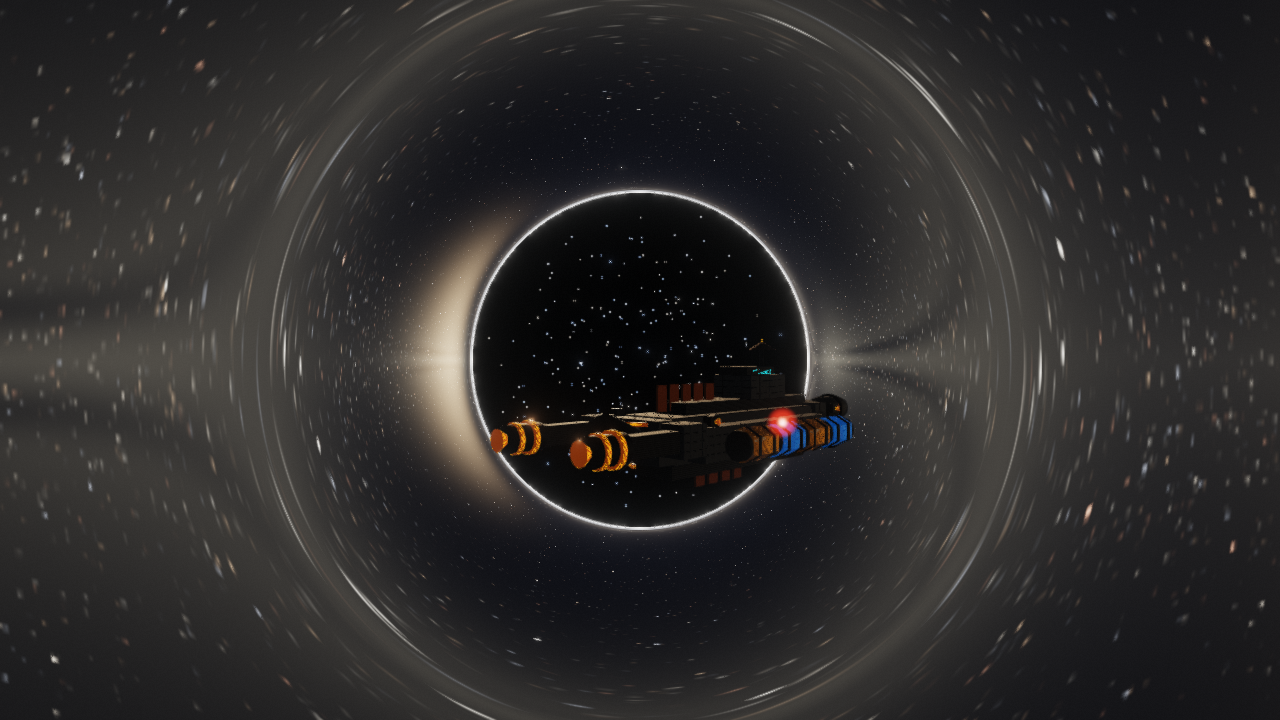
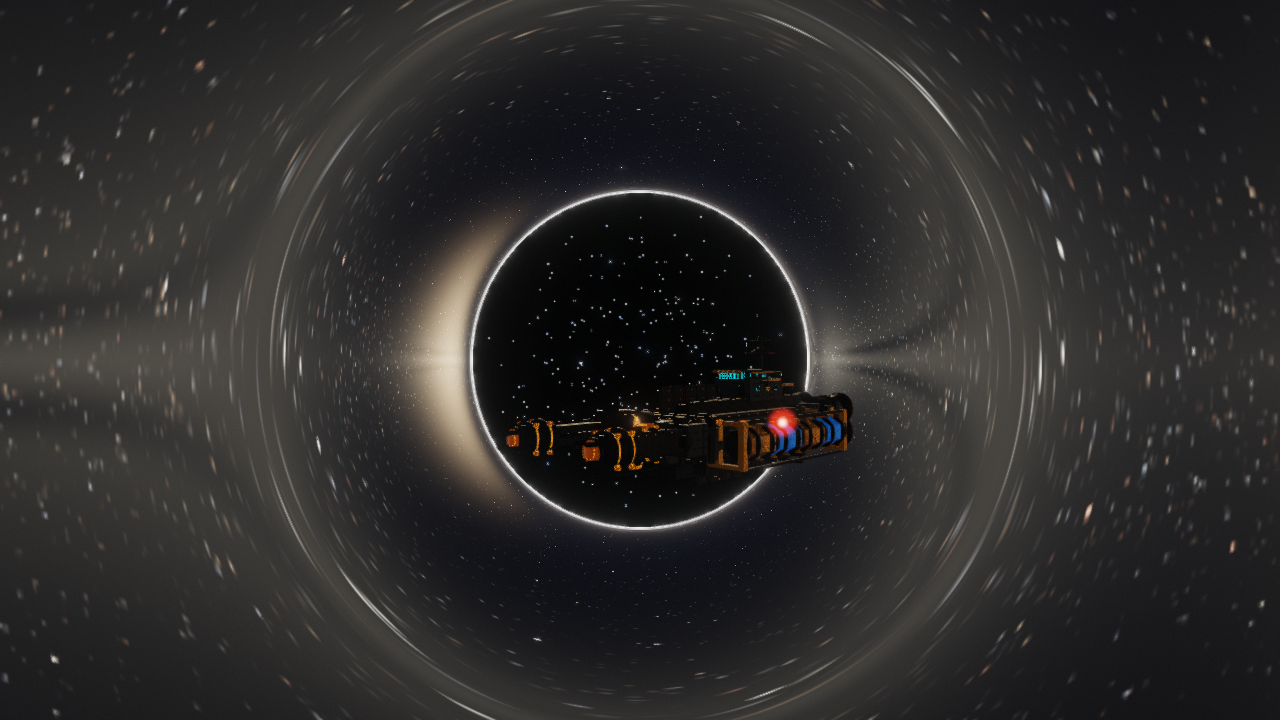
feat(ship): mining dreadnought reference detail pass
The hauler was the blockiest hull in the fleet and is now player-selectable,
so it got the same treatment as dart, shuttle and ring_ship: 17 356 -> 41 740
triangles of real hardware instead of textured boxes.

- crusher drum: tooth ring, 24 breaker spikes, collar
- laser booms: hinge knuckles, hydraulic rams, underside braces, ring collars
  with vanes, emitter cages holding lenses, cable runs along both arms
- bridge: mullioned visor, sun shade, roof handrail, wing platforms, whip and
  blade masts, sensor horns, lens banks; dish rebuilt with rim, stanchions,
  spreader and feed horn
- cargo rack: pod straps with bolts, manifold headers, drop legs, keel
  crossovers, hazard-striped end frames with rails and strobes
- hull: spine banding, weld seams, keel and dorsal stringers, skirt struts,
  armour patches, ladders
- radiators: edge rails, slat arrays, tip weights
- stern: bell throats, CTV and gimbal rings with lugs, feed mains, fore/aft/
  lateral RCS clusters, berthing port, service crane, aft grilles, nav lights

The #195 fleet-axis tip and the 2.30 normalization are untouched and still
hold after the additions - measured on the exported OBJ: X=0.92, Y=0.84,
Z=2.30 with the nose on -Z. One static check pins the detail pass being wired
and the axis convention surviving it.

Verified locally: generator reruns clean, --screenshot-all regenerates
ship_dreadnought.png with the detailed hull level and correctly oriented.

Refs #195

Changed region(s): [[0.375, 0.4889, 0.6875, 0.6722]]

diff --git a/blender/scripts/generate_mining_dreadnought.py b/blender/scripts/generate_mining_dreadnought.py
@@ -146,6 +146,373 @@ def add_hex_pod(center, radius, length, slot=2):
                      radius * 1.08, length * 0.08, axis="Y", sides=6, slot=0, bevel=0.002)
 
 
+def add_dreadnought_details():
+    """Reference-driven relief pass for the Heavy Mining Dreadnought.
+
+    Everything below is authored in the builder frame (+Y forward, +Z up,
+    +X starboard) and is real geometry, not texture tricks: reinforcement
+    banding, weld seams, keel and dorsal stringers and outrigger trusses on the
+    spinal chassis; a bridge visor with mullions, sun shade, handrails, masts,
+    sensor horns and dish feed; crusher teeth, hinge knuckles, hydraulic rams,
+    ring vanes, emitter lenses and boom cable runs on the mining rig; pod
+    straps, manifold piping and hazard-striped end frames on the cargo rack;
+    fin arrays and edge rails on the radiator panels; and bell throats, gimbal
+    rings, feed mains, RCS clusters, a service crane and berthing hardware in
+    the engine room.
+
+    Nothing floats: each piece is either buried in a hull surface or welded to
+    hardware that is. Rule of thumb used throughout - protrude by at least
+    0.02 and embed by at least 0.01, so no face lands coplanar with an existing
+    one (that is what z-fights in the atlas bake).
+    """
+    # Radial placement helpers. The primitives in this file only aim on the
+    # X/Y/Z axes, so anything that has to point off-axis is built from an
+    # axis="X" cylinder plus a single Euler component:
+    #   rot=(0, -a, 0) -> aims along the outward radial (cos a, 0, sin a) of
+    #                     the +Y spine (used by the rig, pods, engines)
+    def radial_spine(center, radius, length, azim, sides=10, slot=1, bevel=0.0):
+        add_cylinder(center, radius, length, axis="X", rot=(0.0, -azim, 0.0),
+                     sides=sides, slot=slot, bevel=bevel)
+
+    def spoke(center, dims, azim, slot=1, bevel=0.0):
+        """Box whose dims read (radial, fore-aft, tangential) at azimuth azim."""
+        add_box(center, dims, slot=slot, rot=(0.0, -azim, 0.0), bevel=bevel)
+
+    def nozzle_aft(center, r=0.024, flare=0.055, length=0.11, slot=7):
+        """Nozzle bell opening aft (-Y): narrow at +Y, flared at -Y."""
+        add_cone(center, r, flare, length, axis="Y", sides=10, slot=slot)
+
+    def nozzle_side(center, outboard, r=0.022, flare=0.050, length=0.10, slot=7):
+        """Nozzle bell opening outboard along +-X."""
+        add_cone(center,
+                 r if outboard > 0 else flare,
+                 flare if outboard > 0 else r,
+                 length, axis="X", sides=10, slot=slot)
+
+    # ------------------------------------------------------------------
+    # A. SPINAL CHASSIS: banding, weld seams, stringers, trusses
+    # ------------------------------------------------------------------
+    # Transverse reinforcement bands around the spine (X +-0.55, Z +-0.375)
+    for y_band in (-1.95, -1.55, 1.30, 1.70, 2.00):
+        add_box((0.0, y_band, 0.0), (1.17, 0.11, 0.83), slot=1, bevel=0.005)
+    # Matching band plates struck across the lateral skirts (X +-0.925 face)
+    for y_band in (-1.55, 1.30, 1.70):
+        for side in (-1, 1):
+            add_box((side * 0.94, y_band, -0.05), (0.05, 0.13, 0.62), slot=6, bevel=0.0)
+
+    # Longitudinal weld seams along the spine sides and the dorsal ridge. The
+    # skirts occupy X +-0.575..0.925 / Z -0.325..0.225, so the seams have to
+    # ride above and below that band or they vanish into the gap.
+    for side in (-1, 1):
+        for z_seam in (0.31, -0.34):
+            add_box((side * 0.56, -0.1, z_seam), (0.04, 4.05, 0.05), slot=6, bevel=0.0)
+        add_box((side * 0.36, -0.2, 0.59), (0.05, 3.40, 0.05), slot=6, bevel=0.0)
+
+    # Keel stringers plus cross ties (keel armour bottom is Z = -0.625)
+    for side in (-1, 1):
+        add_box((side * 0.30, 0.15, -0.645), (0.10, 3.55, 0.08), slot=1, bevel=0.004)
+    for y_tie in (-1.5, -0.9, -0.3, 0.3, 0.9, 1.5):
+        add_box((0.0, y_tie, -0.645), (0.62, 0.10, 0.08), slot=6, bevel=0.0)
+
+    # Dorsal ridge stringers and transverse ribs
+    for side in (-1, 1):
+        add_box((side * 0.24, -0.2, 0.585), (0.07, 3.45, 0.06), slot=1, bevel=0.003)
+    for y_rib in (-1.85, -1.45, 0.15, 0.55, 1.45):
+        add_box((0.0, y_rib, 0.585), (0.66, 0.09, 0.05), slot=6, bevel=0.0)
+
+    # Skirt-to-keel structural struts and outboard armour patches
+    for side in (-1, 1):
+        for y_strut in (-1.5, -0.5, 0.5, 1.5):
+            add_box((side * 0.55, y_strut, -0.50), (0.30, 0.13, 0.24), slot=1, bevel=0.003)
+        for y_patch in (-1.15, -0.35, 0.50, 0.95):
+            add_box((side * 0.935, y_patch, -0.05), (0.05, 0.52, 0.40), slot=0, bevel=0.0)
+        # access ladder rungs on the skirt outer face
+        for k in range(6):
+            add_box((side * 0.94, -1.70 + k * 0.16, -0.20), (0.06, 0.08, 0.025),
+                    slot=1, bevel=0.0)
+
+    # ------------------------------------------------------------------
+    # B. BRIDGE: visor, mullions, sun shade, rails, masts, sensors
+    # ------------------------------------------------------------------
+    # Armored visor band carried forward of the canopy face (canopy: Y -0.925
+    # .. -0.075, X +-0.325, Z 0.94 .. 1.16) - the original window box sits
+    # inside the canopy, so this is what actually reads as glass.
+    add_box((0.0, -0.055, 1.055), (0.60, 0.08, 0.15), slot=4, bevel=0.002)
+    for x_mull in (-0.24, -0.12, 0.0, 0.12, 0.24):
+        add_box((x_mull, -0.04, 1.055), (0.028, 0.05, 0.17), slot=1, bevel=0.0)
+    # Sun shade: horizontal lip off the canopy nose plus a drooped tip plate
+    add_box((0.0, 0.0, 1.155), (0.68, 0.20, 0.05), slot=1, bevel=0.003)
+    add_box((0.0, 0.115, 1.13), (0.68, 0.07, 0.035), slot=2,
+            rot=(-0.55, 0.0, 0.0), bevel=0.0)
+    # Mullion ribs standing proud of the side observation slits (X +-0.35)
+    for side in (-1, 1):
+        for y_slit in (-0.72, -0.5, -0.28):
+            add_box((side * 0.355, y_slit, 1.06), (0.04, 0.06, 0.13), slot=1, bevel=0.0)
+
+    # Walkway handrail on the exposed citadel roof (deck Z = 1.005)
+    for side in (-1, 1):
+        add_box((side * 0.42, -0.62, 1.115), (0.022, 1.02, 0.022), slot=2, bevel=0.0)
+        for y_post in (-1.10, -0.86, -0.62, -0.38, -0.14):
+            add_box((side * 0.42, y_post, 1.055), (0.02, 0.02, 0.13), slot=1, bevel=0.0)
+    add_box((0.0, -1.12, 1.115), (0.86, 0.022, 0.022), slot=2, bevel=0.0)
+    for x_post in (-0.30, 0.0, 0.30):
+        add_box((x_post, -1.12, 1.055), (0.02, 0.02, 0.13), slot=1, bevel=0.0)
+
+    # Bridge wing platforms with edge kerbs, gussets and wingtip lights
+    for side in (-1, 1):
+        add_box((side * 0.51, -0.60, 0.93), (0.20, 0.46, 0.045), slot=0, bevel=0.003)
+        add_box((side * 0.60, -0.60, 0.965), (0.02, 0.44, 0.05), slot=2, bevel=0.0)
+        add_box((side * 0.55, -0.42, 0.88), (0.10, 0.05, 0.10), slot=1,
+                rot=(0.0, 0.0, side * 0.6), bevel=0.0)
+        add_box((side * 0.58, -0.60, 0.975), (0.05, 0.10, 0.06), slot=4, bevel=0.0)
+
+    # Whip antennas and an aft blade mast off the canopy roof
+    for side in (-1, 1):
+        add_cylinder((side * 0.27, -0.86, 1.42), 0.013, 0.55, axis="Z", sides=8, slot=1)
+        add_cone((side * 0.27, -0.86, 1.715), 0.013, 0.001, 0.06, axis="Z", sides=8, slot=6)
+    add_cylinder((0.0, -0.90, 1.32), 0.022, 0.36, axis="Z", sides=8, slot=1)
+    add_box((0.0, -0.90, 1.54), (0.012, 0.16, 0.12), slot=1, rot=(0.0, 0.25, 0.0), bevel=0.0)
+    add_box((0.0, -0.90, 1.42), (0.14, 0.03, 0.03), slot=6, bevel=0.0)
+
+    # Sensor horn cluster and lens banks on the citadel nose and flanks
+    for side in (-1, 1):
+        add_cone((side * 0.33, 0.0, 0.78), 0.10, 0.035, 0.16, axis="Y", sides=12, slot=6)
+        for y_lens, slot_lens in ((-0.30, 4), (-0.62, 7), (-0.94, 4)):
+            add_cylinder((side * 0.435, y_lens, 0.80), 0.05, 0.04, axis="X",
+                         sides=12, slot=slot_lens, bevel=0.0)
+
+    # Comm mast foot: the stock mast starts 0.045 above the citadel deck, so
+    # pedestal it down before rebuilding the dish on top of it.
+    add_box((0.0, -1.0, 1.02), (0.20, 0.22, 0.12), slot=1, bevel=0.003)
+    # Radar dish: mouth rim, feed rod, three stanchions, spreader and horn
+    add_cylinder((0.0, -1.0, 1.50), 0.305, 0.04, axis="Z", sides=20, slot=5, bevel=0.002)
+    add_cylinder((0.0, -1.0, 1.62), 0.030, 0.34, axis="Z", sides=10, slot=6)
+    for k in range(3):
+        ang = k * math.tau / 3.0 + 0.4
+        add_cylinder((0.22 * math.cos(ang), -1.0 + 0.22 * math.sin(ang), 1.64),
+                     0.012, 0.30, axis="Z", sides=6, slot=1)
+    add_cylinder((0.0, -1.0, 1.775), 0.23, 0.03, axis="Z", sides=18, slot=1, bevel=0.0)
+    add_cone((0.0, -1.0, 1.83), 0.07, 0.02, 0.10, axis="Z", sides=12, slot=6)
+
+    # ------------------------------------------------------------------
+    # C. CARGO RACK: straps, bolts, manifold piping, hazard end frames
+    # ------------------------------------------------------------------
+    pod_ys = (1.0, 0.2, -0.6, -1.4)
+    for y_pod in pod_ys:
+        for side in (-1, 1):
+            # strap bands over the hex shells (radius 0.28, Z centre -0.05)
+            for y_off in (-0.20, 0.20):
+                add_cylinder((side * 1.25, y_pod + y_off, -0.05), 0.31, 0.055,
+                             axis="Y", sides=12, slot=1, bevel=0.0)
+                # strap bolt blocks top and bottom
+                for z_bolt in (0.24, -0.34):
+                    add_box((side * 1.25, y_pod + y_off, z_bolt), (0.12, 0.08, 0.05),
+                            slot=2, bevel=0.0)
+
+    # Fore-aft manifold headers on the skirt outer lower edge, with a drop
+    # leg into every canister and two crossovers under the keel.
+    for side in (-1, 1):
+        add_cylinder((side * 0.95, -0.2, -0.26), 0.038, 3.20, axis="Y",
+                     sides=12, slot=5, bevel=0.002)
+        for y_pod in pod_ys:
+            add_cylinder((side * 1.12, y_pod, -0.26), 0.028, 0.30, axis="X",
+                         sides=10, slot=5, bevel=0.0)
+            add_box((side * 0.99, y_pod, -0.26), (0.06, 0.07, 0.09), slot=1, bevel=0.0)
+    # Crossover lines slung under the keel with a riser to each header
+    for y_xover in (0.6, -1.0):
+        add_cylinder((0.0, y_xover, -0.645), 0.034, 1.95, axis="X", sides=12,
+                     slot=5, bevel=0.0)
+        for side in (-1, 1):
+            add_cylinder((side * 0.95, y_xover, -0.45), 0.030, 0.42, axis="Z",
+                         sides=10, slot=5, bevel=0.0)
+
+    # Hazard-striped end frames: outer posts bite into the canister ends,
+    # inner posts land on the skirts, rails close the hoop.
+    for y_frame in (1.46, -1.82):
+        for side in (-1, 1):
+            add_box((side * 1.40, y_frame, -0.05), (0.10, 0.12, 0.80), slot=2, bevel=0.004)
+            add_box((side * 0.90, y_frame, 0.15), (0.10, 0.12, 0.30), slot=2, bevel=0.0)
+            add_box((side * 0.90, y_frame, -0.30), (0.10, 0.12, 0.26), slot=2, bevel=0.0)
+        add_box((0.0, y_frame, 0.30), (2.90, 0.11, 0.07), slot=2, bevel=0.003)
+        add_box((0.0, y_frame, -0.42), (2.90, 0.11, 0.07), slot=2, bevel=0.003)
+        # corner strobes on both ends of the frame
+        for side in (-1, 1):
+            add_box((side * 1.40, y_frame, 0.345), (0.08, 0.09, 0.06), slot=7, bevel=0.0)
+    # Rack handrails tying the two end frames together
+    for side in (-1, 1):
+        add_box((side * 1.40, -0.18, 0.335), (0.06, 3.30, 0.05), slot=1, bevel=0.0)
+        add_box((side * 1.40, -0.18, -0.455), (0.06, 3.30, 0.05), slot=1, bevel=0.0)
+
+    # ------------------------------------------------------------------
+    # D. MINING RIG: teeth, hinge knuckles, rams, ring vanes, cables
+    # ------------------------------------------------------------------
+    # Pulveriser drum collar at the maw root (cone runs Y 2.325 .. 2.975)
+    add_cylinder((0.0, 2.36, 0.0), 0.50, 0.14, axis="Y", sides=20, slot=1, bevel=0.003)
+    # Tooth ring on the forward rim
+    for k in range(12):
+        ang = k * math.tau / 12.0
+        spoke((0.46 * math.cos(ang), 2.90, 0.46 * math.sin(ang)),
+              (0.14, 0.17, 0.11), ang, slot=6, bevel=0.002)
+    # Breaker spikes in three rows down the tapered flank
+    for y_row, r_row in ((2.50, 0.30), (2.65, 0.35), (2.80, 0.41)):
+        for k in range(8):
+            ang = k * math.tau / 8.0 + (0.2 if y_row == 2.65 else 0.0)
+            radial_spine(((r_row + 0.02) * math.cos(ang), y_row, (r_row + 0.02) * math.sin(ang)),
+                         0.030, 0.20, ang, sides=8, slot=7)
+
+    for side in (-1, 1):
+        x = side * 0.95
+        # Boom shoulder and emitter hinge knuckles
+        add_cylinder((x, 2.55, 0.1), 0.10, 0.52, axis="X", sides=16, slot=1, bevel=0.003)
+        add_cylinder((x, 3.62, 0.1), 0.075, 0.46, axis="X", sides=14, slot=1, bevel=0.002)
+        # Hydraulic ram: shoulder top to boom flank, barrel + rod + clevises
+        ram_tilt = -0.38
+        add_box((x, 2.12, 0.36), (0.14, 0.12, 0.10), slot=1, bevel=0.0)
+        add_cylinder((x, 2.31, 0.29), 0.058, 0.42, axis="Y", sides=12, slot=6,
+                     rot=(ram_tilt, 0.0, 0.0), bevel=0.002)
+        add_cylinder((x, 2.58, 0.18), 0.027, 0.36, axis="Y", sides=10, slot=5,
+                     rot=(ram_tilt, 0.0, 0.0), bevel=0.0)
+        add_box((x, 2.72, 0.12), (0.12, 0.10, 0.09), slot=1, bevel=0.0)
+        # Rigid underside brace from the shoulder into the boom belly, with a
+        # jack pad block that the boom can grip on to.
+        add_cylinder((x, 2.75, -0.075), 0.045, 0.80, axis="Y", sides=10, slot=6,
+                     rot=(0.062, 0.0, 0.0), bevel=0.002)
+        add_box((x, 3.02, -0.10), (0.12, 0.10, 0.12), slot=1, bevel=0.0)
+
+        # Focusing-ring collars, cooling vanes and emitter hardware
+        for y_ring, r_ring in ((3.70, 0.27), (3.95, 0.25)):
+            add_cylinder((x, y_ring + 0.05, 0.1), r_ring + 0.035, 0.05, axis="Y",
+                         sides=18, slot=1, bevel=0.002)
+            for k in range(4):
+                ang = k * math.tau / 4.0 + math.pi / 4.0
+                spoke((x + (r_ring + 0.05) * math.cos(ang), y_ring,
+                       0.1 + (r_ring + 0.05) * math.sin(ang)),
+                      (0.09, 0.09, 0.05), ang, slot=7, bevel=0.0)
+        # Emitter nose collar, lens and four-prong guard cage
+        add_cylinder((x, 4.20, 0.1), 0.205, 0.05, axis="Y", sides=16, slot=1, bevel=0.002)
+        add_cylinder((x, 4.245, 0.1), 0.10, 0.06, axis="Y", sides=14, slot=7, bevel=0.0)
+        for k in range(4):
+            ang = k * math.tau / 4.0 + math.pi / 4.0
+            spoke((x + 0.175 * math.cos(ang), 4.30, 0.1 + 0.175 * math.sin(ang)),
+                  (0.05, 0.24, 0.05), ang, slot=6, bevel=0.0)
+
+        # Cable runs and conduit clamps along both boom faces
+        for x_off, z_off in ((0.10, 0.18), (-0.16, 0.0)):
+            add_cylinder((x + side * x_off, 3.05, 0.1 + z_off), 0.030, 1.15, axis="Y",
+                         sides=10, slot=6, bevel=0.0)
+            for y_clamp in (2.62, 2.95, 3.28, 3.61):
+                add_box((x + side * x_off, y_clamp, 0.1 + z_off), (0.07, 0.05, 0.07),
+                        slot=1, bevel=0.0)
+        # Junction box on the shoulder top, bracketed to the boom cable tray
+        add_box((x, 2.44, 0.39), (0.16, 0.14, 0.12), slot=6, bevel=0.002)
+        add_box((x + side * 0.055, 2.50, 0.31), (0.21, 0.14, 0.10), slot=6, bevel=0.0)
+
+    # Prospector probe mast on the maw face - the pulveriser drum swallows
+    # anything axially short, so the probe has to clear Y = 2.975.
+    add_box((0.0, 2.98, 0.0), (0.22, 0.10, 0.16), slot=1, bevel=0.002)
+    add_cylinder((0.0, 3.04, 0.0), 0.060, 0.05, axis="Y", sides=12, slot=4, bevel=0.0)
+    add_cylinder((0.0, 3.06, 0.0), 0.055, 0.30, axis="Y", sides=12, slot=1, bevel=0.002)
+    add_cone((0.0, 3.28, 0.0), 0.008, 0.055, 0.16, axis="Y", sides=12, slot=6)
+
+    # Bow RCS blocks on the bulkhead corners
+    for side in (-1, 1):
+        for z_rcs in (0.28, -0.28):
+            add_box((side * 0.50, 2.44, z_rcs), (0.14, 0.14, 0.14), slot=6, bevel=0.002)
+            for y_noz in (2.40, 2.50):
+                nozzle_aft((side * 0.50, y_noz, z_rcs))
+
+    # ------------------------------------------------------------------
+    # E. RADIATORS: fin arrays, edge rails, tip weights
+    # ------------------------------------------------------------------
+    # Dorsal panels: (0, 0.6 + i*0.3, 0.65), 0.04 x 0.22 x 0.45
+    for i in range(5):
+        y_fin = 0.6 + i * 0.3
+        for side in (-1, 1):
+            add_box((side * 0.024, y_fin, 0.655), (0.025, 0.24, 0.47), slot=1, bevel=0.0)
+        for z_slat in (0.50, 0.66, 0.82):
+            add_box((0.0, y_fin, z_slat), (0.15, 0.05, 0.028), slot=5, bevel=0.0)
+        add_box((0.0, y_fin, 0.885), (0.06, 0.24, 0.04), slot=1, bevel=0.0)
+
+    # Ventral panels: (0, -0.2 + i*0.35, -0.75), 0.04 x 0.24 x 0.35
+    for i in range(4):
+        y_fin = -0.2 + i * 0.35
+        for side in (-1, 1):
+            add_box((side * 0.024, y_fin, -0.745), (0.025, 0.26, 0.37), slot=1, bevel=0.0)
+        for z_slat in (-0.86, -0.74, -0.62):
+            add_box((0.0, y_fin, z_slat), (0.14, 0.05, 0.026), slot=5, bevel=0.0)
+        add_box((0.0, y_fin, -0.93), (0.07, 0.26, 0.04), slot=1, bevel=0.0)
+
+    # ------------------------------------------------------------------
+    # F. ENGINE ROOM: throats, gimbals, feeds, RCS, berthing, crane
+    # ------------------------------------------------------------------
+    thruster_offsets = ((-0.48, 0.26), (0.48, 0.26), (-0.48, -0.26), (0.48, -0.26))
+    for tx, tz in thruster_offsets:
+        # Expanding throat bolted onto the existing bell rim (r 0.22 at Y -3.125)
+        add_cone((tx, -3.22, tz), 0.22, 0.345, 0.30, axis="Y", sides=24, slot=6)
+        add_cylinder((tx, -3.34, tz), 0.355, 0.045, axis="Y", sides=20, slot=5, bevel=0.002)
+        # Gimbal ring plus lugs between cowl and block
+        add_cylinder((tx, -2.74, tz), 0.29, 0.07, axis="Y", sides=18, slot=1, bevel=0.002)
+        for k in range(4):
+            ang = k * math.tau / 4.0 + math.pi / 4.0
+            spoke((tx + 0.30 * math.cos(ang), -2.74, tz + 0.30 * math.sin(ang)),
+                  (0.10, 0.12, 0.09), ang, slot=6, bevel=0.0)
+        # Outboard feed line running aft to the cowl
+        add_cylinder((tx + (0.22 if tx > 0 else -0.22), -2.45, tz), 0.035, 0.55,
+                    axis="Y", sides=10, slot=5, bevel=0.0)
+        # Auger/pump casing on top of each cowl
+        add_box((tx, -2.42, tz + (0.24 if tz > 0 else -0.24)), (0.20, 0.30, 0.10),
+                slot=0, bevel=0.002)
+
+    # Transverse propellant mains across the aft bell cluster
+    for tz in (0.26, -0.26):
+        add_cylinder((0.0, -2.56, tz), 0.042, 1.50, axis="X", sides=12, slot=5, bevel=0.002)
+
+    # Berthing port on the engine block aft face (Y = -2.525)
+    add_cylinder((0.0, -2.57, 0.0), 0.19, 0.16, axis="Y", sides=20, slot=1, bevel=0.003)
+    add_cylinder((0.0, -2.58, 0.0), 0.12, 0.20, axis="Y", sides=16, slot=6, bevel=0.0)
+    for k in range(4):
+        ang = k * math.tau / 4.0 + math.pi / 4.0
+        spoke((0.21 * math.cos(ang), -2.60, 0.21 * math.sin(ang)),
+              (0.08, 0.12, 0.07), ang, slot=2, bevel=0.0)
+        add_box((0.20 * math.cos(k * math.tau / 4.0), -2.645,
+                 0.20 * math.sin(k * math.tau / 4.0)), (0.05, 0.05, 0.05), slot=4, bevel=0.0)
+
+    # Aft RCS clusters on the skirt tails plus midship lateral blocks
+    for side in (-1, 1):
+        for y_rcs, z_rcs in ((-1.86, 0.10), (-1.05, -0.20)):
+            add_box((side * 0.85, y_rcs, z_rcs), (0.18, 0.18, 0.15), slot=6, bevel=0.002)
+            nozzle_aft((side * 0.85, y_rcs - 0.10, z_rcs))
+            nozzle_side((side * 0.96, y_rcs, z_rcs), side)
+        add_box((side * 0.94, 0.35, 0.05), (0.12, 0.20, 0.18), slot=6, bevel=0.002)
+        nozzle_side((side * 0.99, 0.35, 0.05), side)
+        # The stock lateral RCS blocks (X +-1.05, Z 0.35) hang in mid-air off
+        # the skirt corner - give each one a mounting pylon back to the skirt.
+        for y_pylon in (-1.8, 1.8):
+            add_box((side * 0.97, y_pylon, 0.24), (0.12, 0.22, 0.22), slot=1, bevel=0.003)
+
+    # Service crane on the aft deck for ore-hauler berthing duty
+    add_cylinder((0.30, -2.10, 0.59), 0.075, 0.36, axis="Z", sides=12, slot=1, bevel=0.002)
+    add_cylinder((0.30, -2.10, 0.44), 0.11, 0.06, axis="Z", sides=14, slot=6, bevel=0.0)
+    add_box((0.30, -2.36, 0.79), (0.08, 0.62, 0.06), slot=2, bevel=0.002)
+    add_box((0.30, -2.64, 0.73), (0.07, 0.07, 0.12), slot=1, bevel=0.0)
+    add_cylinder((0.30, -2.64, 0.66), 0.030, 0.10, axis="Z", sides=8, slot=6, bevel=0.0)
+
+    # Aft engineering grilles and access panels on the block flanks
+    for side in (-1, 1):
+        for k in range(4):
+            add_box((side * 0.665, -2.45 + k * 0.16, 0.30), (0.03, 0.10, 0.20),
+                    slot=6, bevel=0.0)
+        add_box((side * 0.665, -2.10, -0.20), (0.03, 0.55, 0.30), slot=0, bevel=0.0)
+
+    # ------------------------------------------------------------------
+    # G. NAV LIGHTS AND MARKERS
+    # ------------------------------------------------------------------
+    add_box((0.0, -1.0, 1.80), (0.06, 0.06, 0.05), slot=7, bevel=0.0)
+    for side in (-1, 1):
+        add_box((side * 0.50, 2.40, 0.33), (0.08, 0.08, 0.06), slot=4, bevel=0.0)
+        add_box((side * 0.94, -1.86, 0.20), (0.05, 0.08, 0.06), slot=7, bevel=0.0)
+
+
 def build_mining_dreadnought():
     """Assembles all industrial components of the mining dreadnought."""
     # Coordinates convention *inside this builder*: +Y is Forward, +Z is Up,
@@ -278,6 +645,11 @@ def build_mining_dreadnought():
         for y_rcs in (-1.8, 1.8):
             add_box((side * 1.05, y_rcs, 0.35), (0.16, 0.2, 0.16), slot=6, bevel=0.002)
             add_cone((side * 1.15, y_rcs, 0.35), 0.06, 0.02, 0.08, axis="X", sides=8, slot=7)
+
+    # -------------------------------------------------------------
+    # 7. REFERENCE-DRIVEN RELIEF PASS (banding, rig hardware, RCS, piping)
+    # -------------------------------------------------------------
+    add_dreadnought_details()
 
 
 def setup_showcase_camera_and_lighting(scene, target_size=5.0):

diff --git a/CHANGELOG.md b/CHANGELOG.md
@@ -27,7 +27,9 @@
 - EN: Mining Dreadnought becomes a real hull, not an orphan mesh - the generator authored it +Y forward / +Z up while dart, shuttle, ring_ship and warp_ship all put their length on the OBJ Z axis, so the hull is now tipped once before export and normalized to the fleet's 2.30 length (measured X=0.94, Y=0.82, Z=2.30 with the nose on -Z). It is selectable as style 4 in both hull pickers, carries a warp drive and the most inertial handling in the fleet (boost x1.10, recharge x1.70), and the screenshot harness emits a `ship_dreadnought.png` hero frame so an axis regression is visible in one image. The hull list now has a single source of truth (`ship::kShipStyleCount` and `ship::kShipStyleNames` in `src/Types.h`), which replaces the hardcoded `3` clamp in `warpdrive::setShipStyle` and the two duplicated four-entry UI arrays.
 - RU: Шахтёрский дредноут становится полноценным корпусом, а не брошенной меш-моделью - генератор строил его по оси +Y вперёд / +Z вверх, тогда как dart, shuttle, ring_ship и warp_ship держат длину на оси Z в OBJ, поэтому теперь корпус один раз разворачивается перед экспортом и приводится к флотской длине 2.30 (замер: X=0.94, Y=0.82, Z=2.30, нос на -Z). Он выбирается как стиль 4 в обоих списках корпусов, несёт варп-двигатель и самую инерционную управляемость во флоте (форсаж x1.10, перезарядка x1.70), а харнесс скриншотов отдаёт геройский кадр `ship_dreadnought.png`, чтобы регрессия осей была видна одной картинкой. Список корпусов получил единый источник истины (`ship::kShipStyleCount` и `ship::kShipStyleNames` в `src/Types.h`), который заменил зашитую единицу-ограничитель `3` в `warpdrive::setShipStyle` и два продублированных массива по четыре пункта в UI.
 - Gates / Гейты: MSVC Release build OK, ctest 23/23 PASS с активными `assert()`, статические проверки расширены проверками выполнения ctest в CI и снятия NDEBUG для тестовых таргетов; `--capture-colony` 4/4 PASS (structures 9/18/41/82, centre-changed 14325/71155/134416/121033), `--capture-fleet` 7/7 PASS, `--capture-menu` PASS (корабль пиксельно-статичен), плюс 3 новых статических условия на civic/коммунальные ассеты, отсечение столицы и роли атласа и 2 новых условия на осевую конвенцию корпусов (#189).
-- Gates / Гейты (интеграция дредноута, #195): MSVC Release build OK, ctest 23/23 PASS, `--capture-fleet` 7/7 PASS, `--capture-menu` PASS; шесть новых статических условий - загрузка меша в сцене, единый список стилей корпуса, варп-роль и параметры форсажа, разворот и шкала генератора, кадр `ship_dreadnought.png` в харнессе и строки документации. Все шесть вычисляются в True (локально `.ps1` по-прежнему блокируется политикой выполнения, настоящий гейт - job `Static checks` в CI).
+- EN: Mining Dreadnought detail pass - 17 356 to 41 740 triangles, the largest jump of the fleet passes. The crusher drum got a tooth ring and 24 breaker spikes with a collar, the laser booms hinge knuckles, hydraulic rams, underside braces, ring collars with vanes and emitter cages holding real lenses, plus cable runs along both arms. The bridge gained a mullioned visor, sun shade, roof handrail, wing platforms, whip and blade masts, sensor horns, lens banks and a rebuilt dish with rim, stanchions, spreader and feed horn. The cargo rack got pod straps with bolts, manifold headers, drop legs, keel crossovers and hazard-striped end frames with rails and strobes; the hull got spine banding, weld seams, keel and dorsal stringers, skirt struts, armour patches and ladders; the radiators got edge rails, slat arrays and tip weights; the stern got bell throats, CTV and gimbal rings with lugs, feed mains, fore/aft/lateral RCS clusters, a berthing port, a service crane, aft grilles and nav lights.
+- RU: Детальный проход шахтёрского дредноута - с 17 356 до 41 740 треугольников, самый большой скачок из всех корпусных проходов. На дробилке появились кольцевой венец зубьев и двадцать четыре разрушающих шипа с бандажом; на лазерных стрелах - проушины шарниров, гидравлические цилиндры, нижние распорки, кольца с лопатками и клетки эмиттеров с настоящими линзами, плюс кабельные трассы вдоль обеих стрел. Мостик получил визор с импостами, солнцезащитный козырёк, кровельный поручень, боковые площадки, штыревые и лепестковые антенны, сенсорные рога и блок линз, а тарелка пересобрана с ободом, стойками, растяжками и питателем. На грузовой рампе - хомуты канистр с болтами, коллекторы, опоры, киль-перемычки и торцевые рамы в предупреждающей окраске с поручнями и стробоскопами; на корпусе - ленты хребта, сварные швы, продольные силовые стрингеры по килю и спинке, стойки боковых юнитов, брони-накладки и скобы-лестницы; на радиаторах - краевые шины, ламельные пакеты и грузики законцовок; на корме - раструбы, CTV- и карданные кольца с проушинами, питающие магистрали, кластеры РКС в носу, корме и по бортам, стыковочный порт, сервисный кран, кормовые решётки и навигационные огни.
+- Gates / Гейты (интеграция дредноута, #195): MSVC Release build OK, ctest 23/23 PASS, `--capture-fleet` 7/7 PASS, `--capture-menu` PASS; шесть новых статических условий - загрузка меша в сцене, единый список стилей корпуса, варп-роль и параметры форсажа, разворот и шкала генератора, кадр `ship_dreadnought.png` в харнессе и строки документации. Все шесть вычисляются в True (локально `.ps1` по-прежнему блокируется политикой выполнения, настоящий гейт - job `Static checks` в CI). Плюс условие на подключённый детальный проход, которое тоже True; габарит после обвеса не поехал: X=0.92, Y=0.84, Z=2.30, нос на -Z.
 
 ## 5.0.5 - 2026-11-16
 
